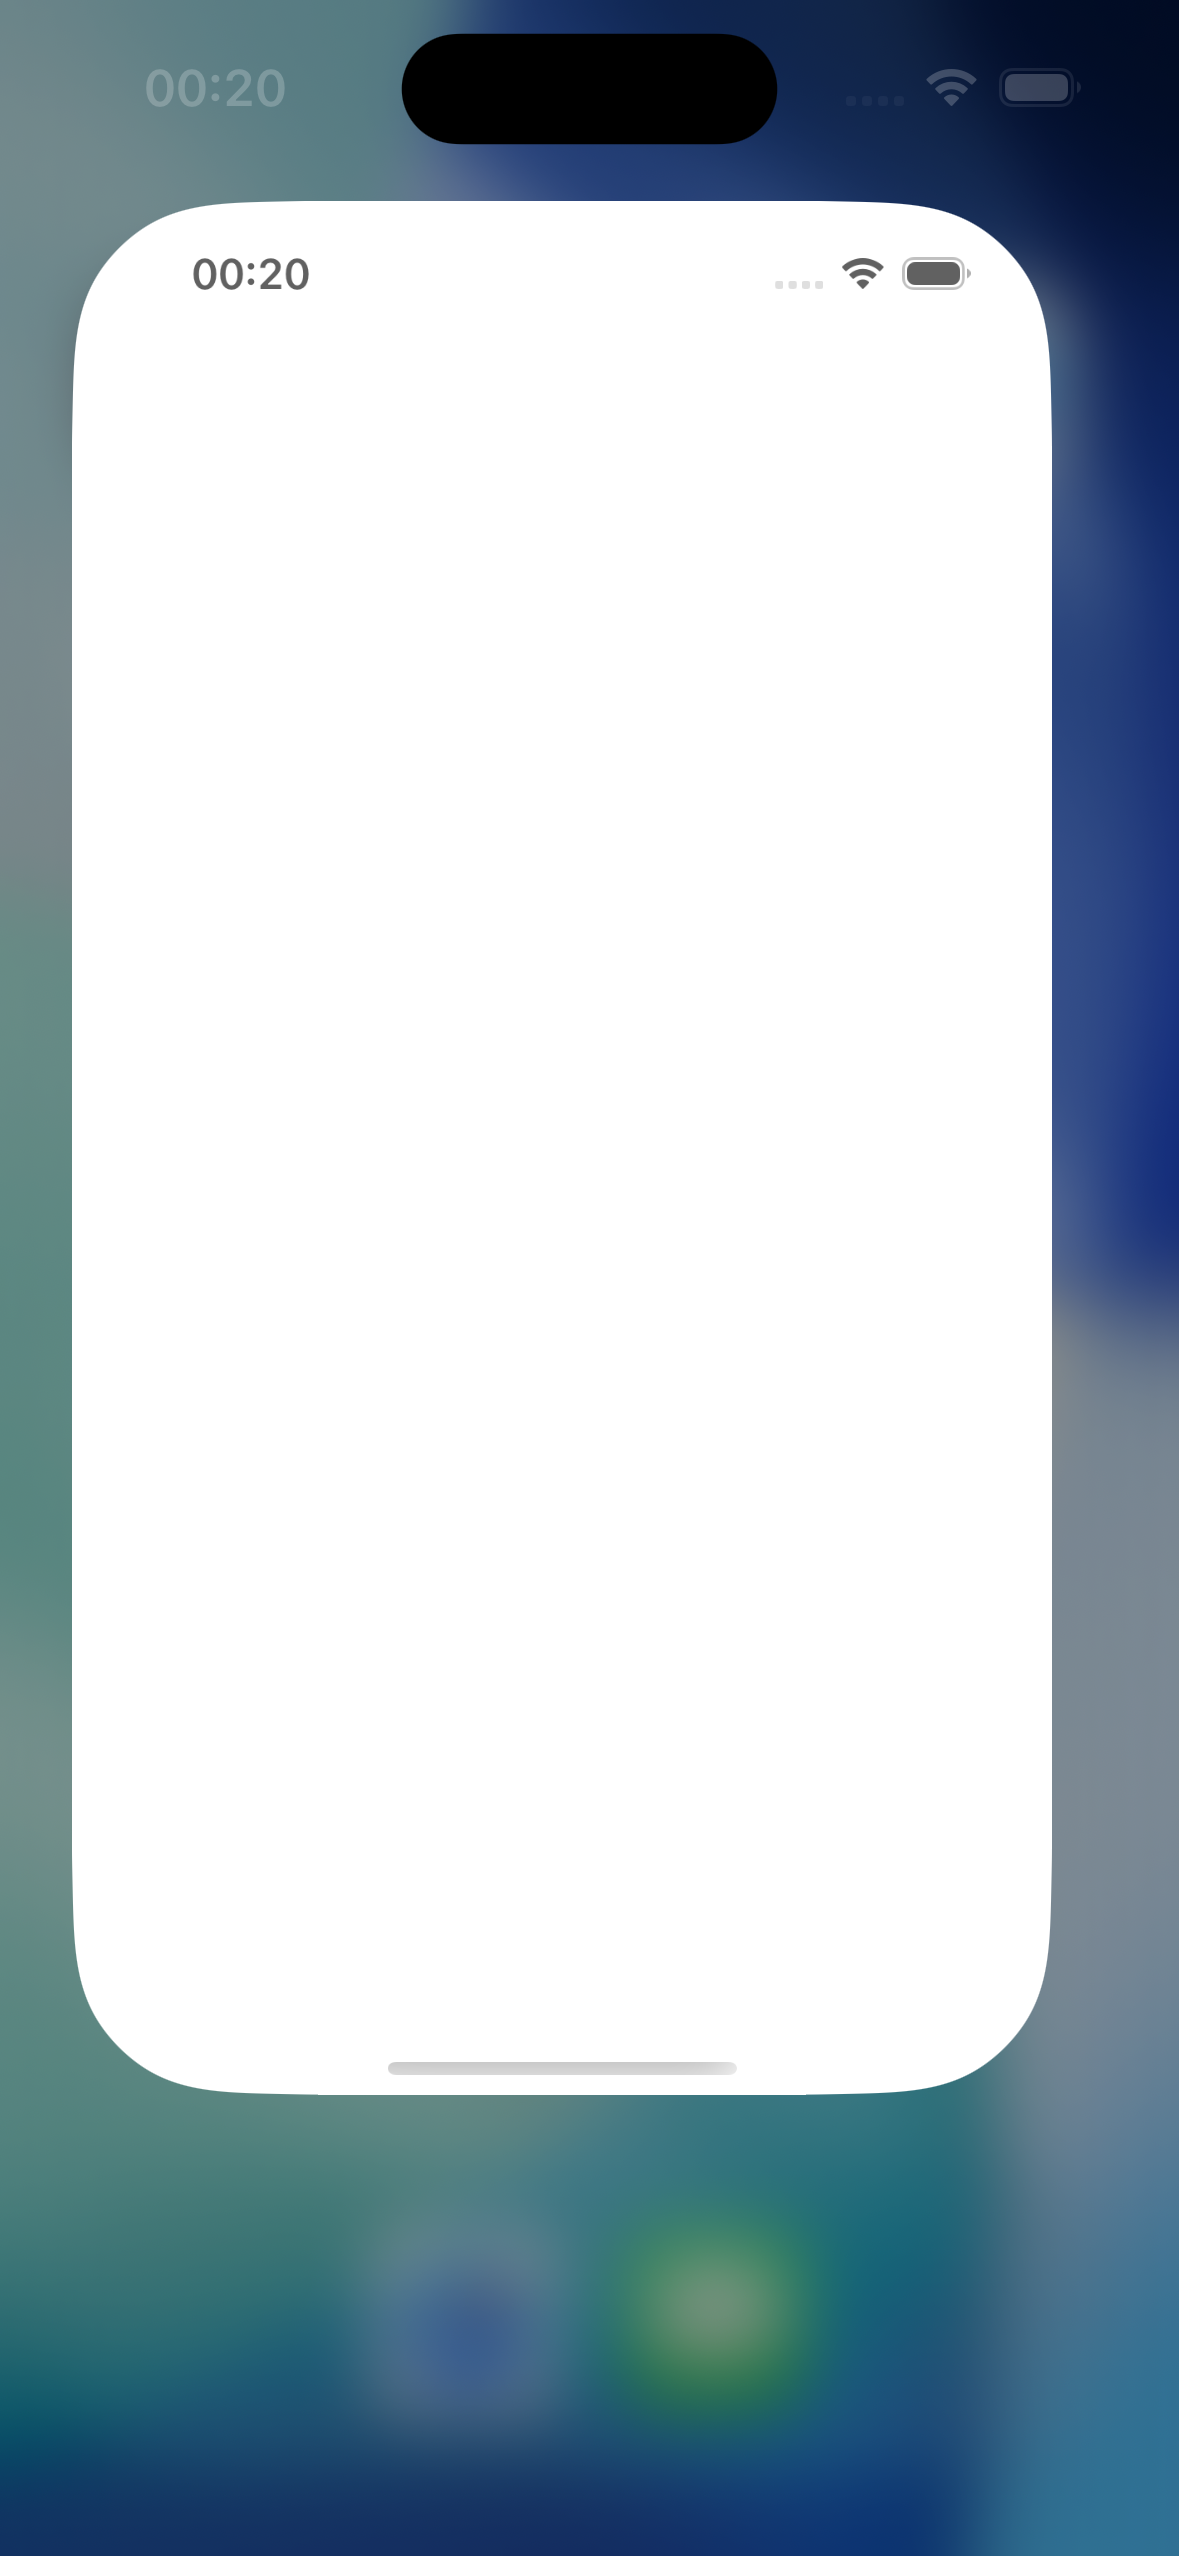
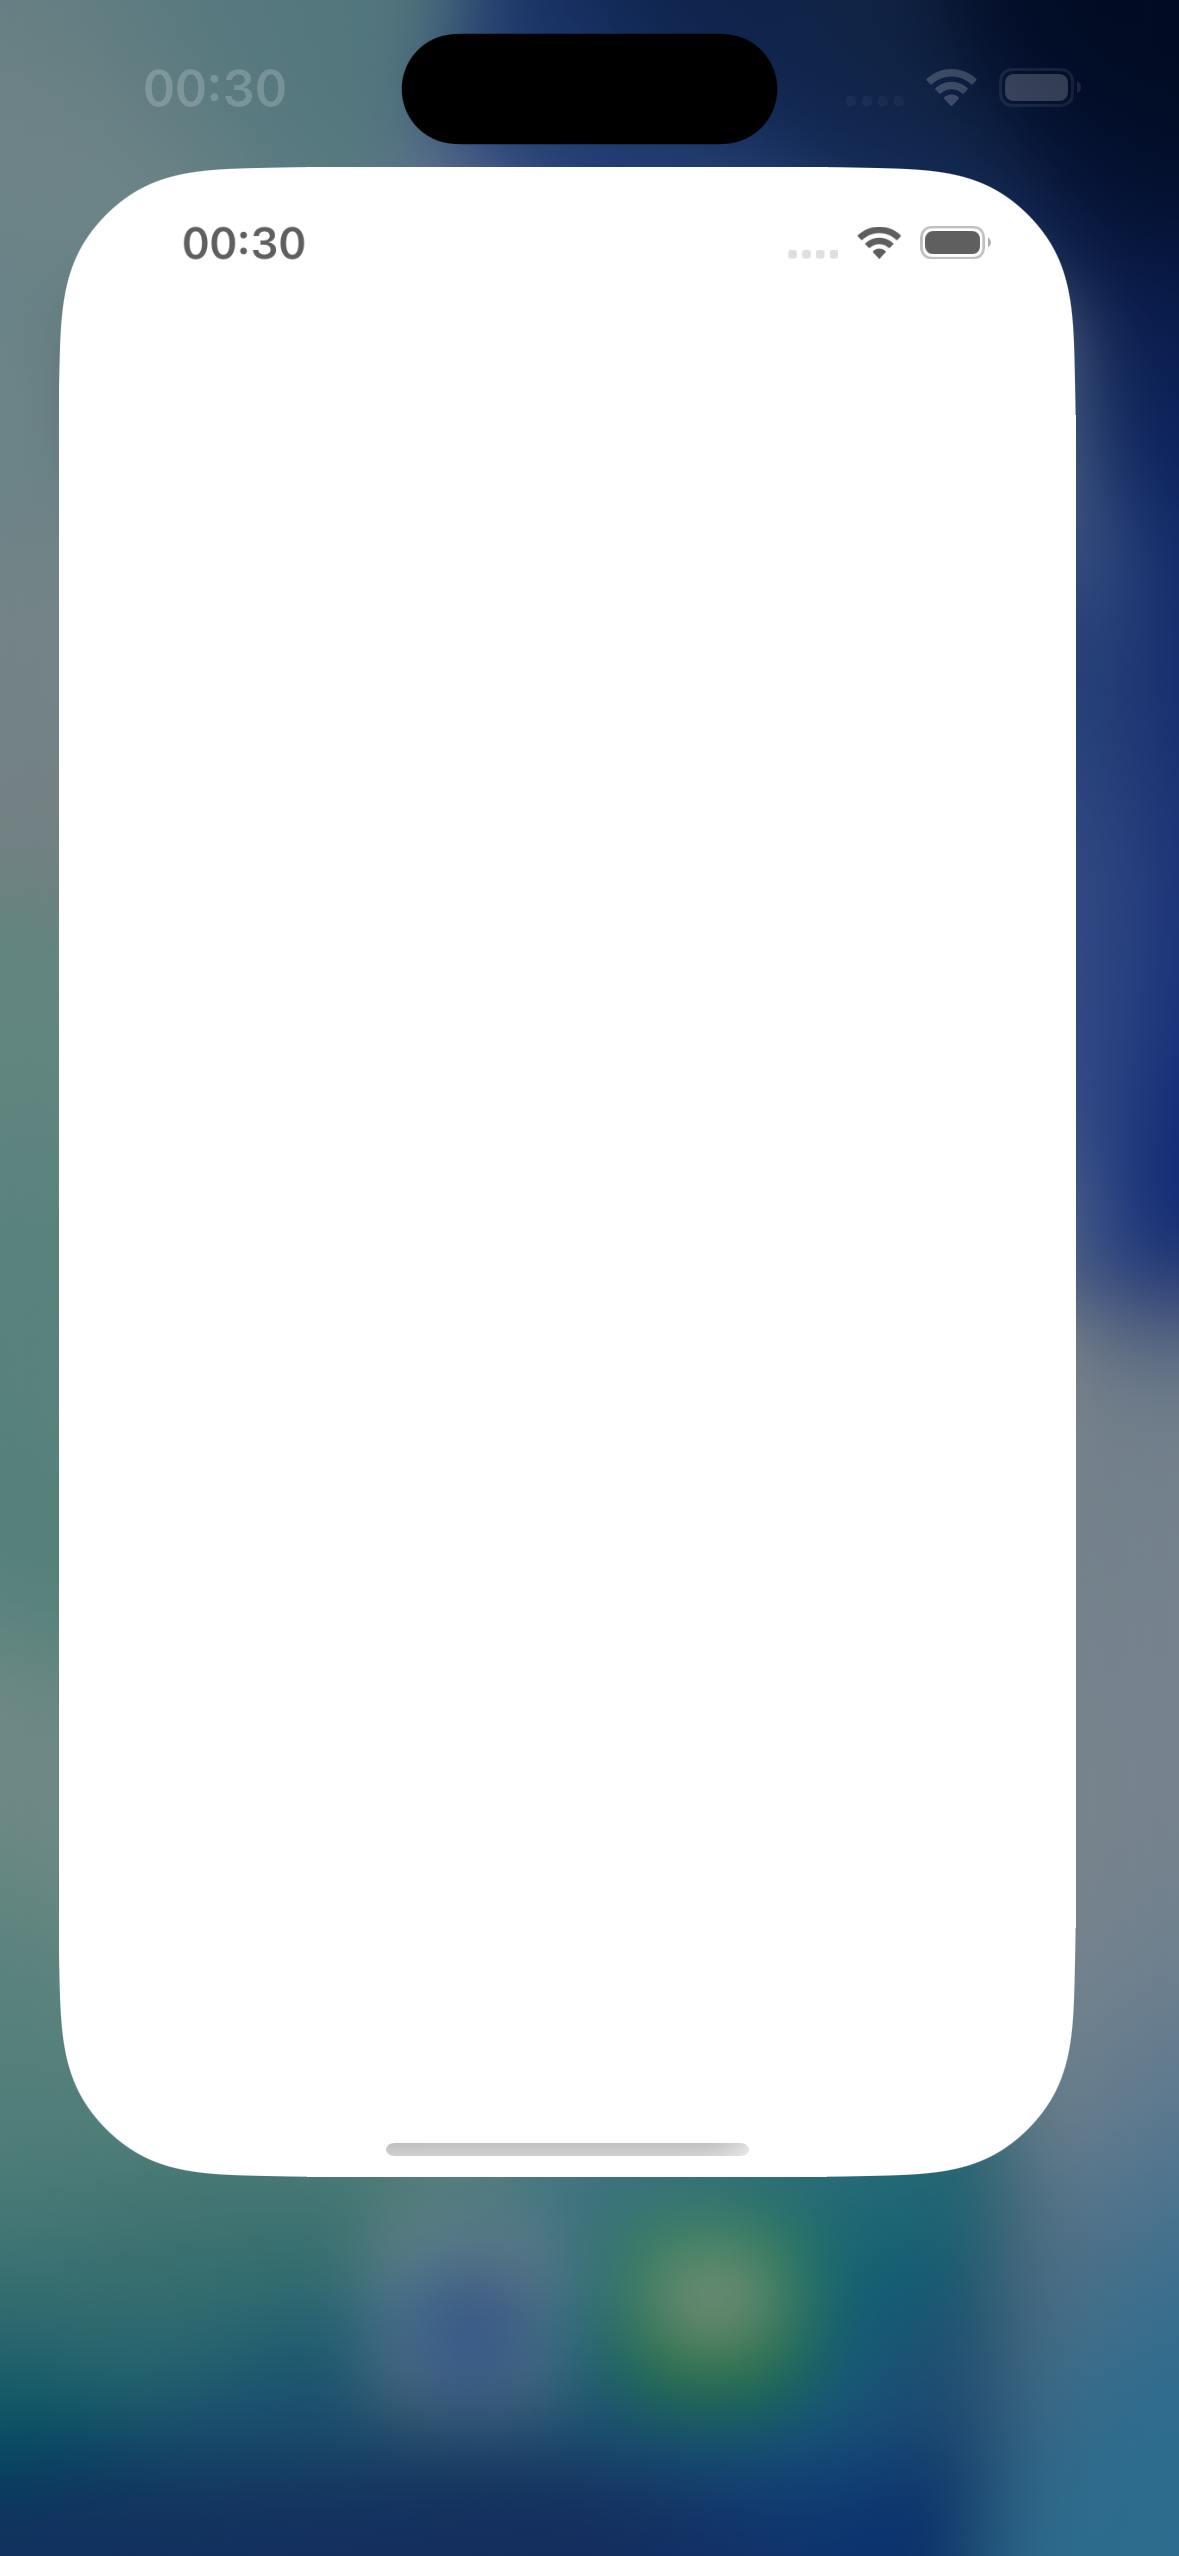
fix(chat): tune voice composer spacing

Changed region(s): [[0.0305, 0.0618, 0.916, 0.8654]]

diff --git a/OpenCodeClient/OpenCodeClient/Views/Chat/ChatTabView.swift b/OpenCodeClient/OpenCodeClient/Views/Chat/ChatTabView.swift
@@ -97,8 +97,8 @@ struct ChatTabView: View {
     }
 
     private var composerPlaceholderText: String {
-        if isRecording { return L10n.t(.chatSpeechListening) }
-        if isShowingTranscribingUI { return L10n.t(.chatSpeechTranscribing) }
+        if isRecording { return L10n.t(.chatSpeechTranscriptWillAppear) }
+        if isShowingTranscribingUI { return L10n.t(.chatSpeechTranscribingHint) }
         if hasPreservedSpeechAudioForUI { return L10n.t(.chatSpeechPreservedAudio) }
         return L10n.t(.chatInputPlaceholder)
     }
@@ -395,7 +395,8 @@ struct ChatTabView: View {
             }
         }
         .padding(.horizontal, DesignSpacing.xs)
-        .padding(.bottom, DesignSpacing.xs)
+        .padding(.top, DesignSpacing.xs)
+        .padding(.bottom, DesignSpacing.sm)
     }
 
     private var shouldShowComposerStatus: Bool {
@@ -480,7 +481,8 @@ struct ChatTabView: View {
             voiceRailTrailingAction
         }
         .padding(.horizontal, DesignSpacing.xs)
-        .padding(.bottom, DesignSpacing.sm)
+        .padding(.top, DesignSpacing.sm)
+        .padding(.bottom, DesignSpacing.md)
     }
 
     var body: some View {
@@ -717,9 +719,9 @@ struct ChatTabView: View {
                         .disabled(!canSendNow)
                         .padding(.bottom, 1)
                     }
-                 }
+                }
                 .padding(.horizontal, 12)
-                .padding(.vertical, 6)
+                .padding(.vertical, 8)
                 .background(colorScheme == .dark ? DesignColors.Neutral.composerDark : DesignColors.Neutral.composerLight)
                 .clipShape(RoundedRectangle(cornerRadius: DesignCorners.large))
                 .padding(.horizontal, DesignControls.composerContainerHorizontalPadding)

diff --git a/OpenCodeClient/OpenCodeClient/Support/L10n.swift b/OpenCodeClient/OpenCodeClient/Support/L10n.swift
@@ -104,8 +104,10 @@ enum L10n {
         case chatSpeechStreamDisconnected
         case chatSpeechTapToSpeak
         case chatSpeechListening
+        case chatSpeechTranscriptWillAppear
         case chatSpeechRecovering
         case chatSpeechTranscribing
+        case chatSpeechTranscribingHint
         case chatSpeechPreservedAudio
         case chatSpeechStopWaiting
         case chatSpeechRetrySegment
@@ -334,8 +336,10 @@ enum L10n {
         Key.chatSpeechStreamDisconnected.rawValue: "The speech connection was lost and couldn't recover. Tap stop and try again.",
         Key.chatSpeechTapToSpeak.rawValue: "Tap to speak",
         Key.chatSpeechListening.rawValue: "Listening...",
+        Key.chatSpeechTranscriptWillAppear.rawValue: "Transcript will appear here...",
         Key.chatSpeechRecovering.rawValue: "Reconnecting voice...",
         Key.chatSpeechTranscribing.rawValue: "Transcribing...",
+        Key.chatSpeechTranscribingHint.rawValue: "Finishing transcript...",
         Key.chatSpeechPreservedAudio.rawValue: "Audio saved. Retry this segment.",
         Key.chatSpeechStopWaiting.rawValue: "Stop transcription wait",
         Key.chatSpeechRetrySegment.rawValue: "Retry this segment",
@@ -568,8 +572,10 @@ enum L10n {
         Key.chatSpeechStreamDisconnected.rawValue: "语音连接断开且无法恢复，请按停止后重试。",
         Key.chatSpeechTapToSpeak.rawValue: "点击说话",
         Key.chatSpeechListening.rawValue: "正在听…",
+        Key.chatSpeechTranscriptWillAppear.rawValue: "转写内容会显示在这里…",
         Key.chatSpeechRecovering.rawValue: "语音正在重连…",
         Key.chatSpeechTranscribing.rawValue: "正在转写…",
+        Key.chatSpeechTranscribingHint.rawValue: "正在完成转写…",
         Key.chatSpeechPreservedAudio.rawValue: "音频已保留，可重试这段。",
         Key.chatSpeechStopWaiting.rawValue: "停止转写等待",
         Key.chatSpeechRetrySegment.rawValue: "重试这段",